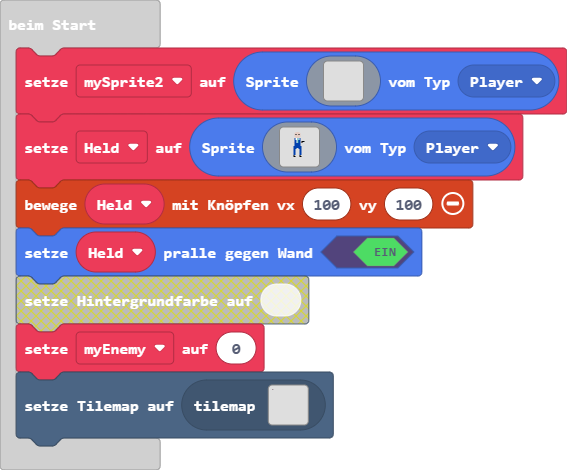
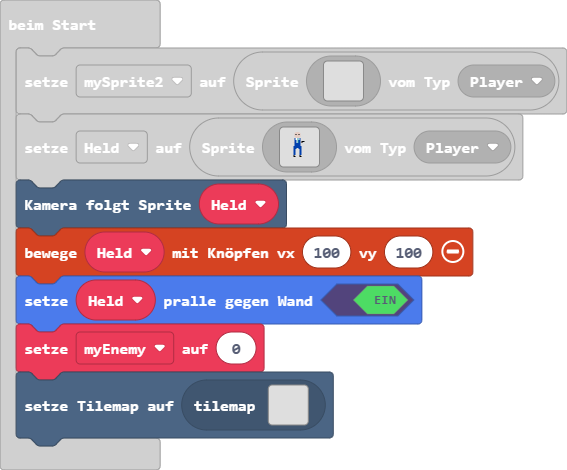
Aktualisiere main.blocks, main.ts, tilemap.g.jres, tilemap.g.ts

diff --git a/tilemap.g.ts b/tilemap.g.ts
@@ -2,8 +2,6 @@
 namespace myTiles {
     //% fixedInstance jres blockIdentity=images._tile
     export const transparency16 = image.ofBuffer(hex``);
-    //% fixedInstance jres blockIdentity=images._tile
-    export const tile1 = image.ofBuffer(hex``);
 
     helpers._registerFactory("tilemap", function(name: string) {
         switch(helpers.stringTrim(name)) {
@@ -140,6 +138,25 @@ namespace myTiles {
 . . . . . . . . . . . . . . . . 
 . . . . . . . . . . . . . . . . 
 `, [myTiles.transparency16,sprites.dungeon.hazardLava1], TileScale.Sixteen);
+            case "Level9":
+            case "Level9":return tiles.createTilemap(hex`1000100000000000000000000000000000000000000000000000000000000000000000000000000000000000000000000000000000000000000000000000000000000000000000000000000000000000000000000000000000000000000000000000000000000000000000000000000000000000000000000000000000000000000000000000000000000000000000000000000000000000000000000000000000000000000000000000000000000000000000000000000000000000000000000000000000000000000000000000000000000000000000000000000000000000000000000000000000000000000000000000000000000000000000000000000000000000`, img`
+. . . . . . . . . . . . . . . . 
+. . . . . . . . . . . . . . . . 
+. . . . . . . . . . . . . . . . 
+. . . . . . . . . . . . . . . . 
+. . . . . . . . . . . . . . . . 
+. . . . . . . . . . . . . . . . 
+. . . . . . . . . . . . . . . . 
+. . . . . . . . . . . . . . . . 
+. . . . . . . . . . . . . . . . 
+. . . . . . . . . . . . . . . . 
+. . . . . . . . . . . . . . . . 
+. . . . . . . . . . . . . . . . 
+. . . . . . . . . . . . . . . . 
+. . . . . . . . . . . . . . . . 
+. . . . . . . . . . . . . . . . 
+. . . . . . . . . . . . . . . . 
+`, [], -Infinity);
             case "Level8":
             case "Level8":return tiles.createTilemap(hex`1000100000000000000000000000000000000000000000000000000000000000000000000000000000000000000000000000000000000000000000000000000000000000000000000000000000000000000000000000000000000000000000000000000000000000000000000000000000000000000000000000000000000000000000000000000000000000000000000000000000000000000000000000000000000000000000000000000000000000000000000000000000000000000000000000000000000000000000000000000000000000000000000000000000000000000000000000000000000000000000000000000000000000000000000000000000000000`, img`
 . . . . . . . . . . . . . . . . 
@@ -158,42 +175,7 @@ namespace myTiles {
 . . . . . . . . . . . . . . . . 
 . . . . . . . . . . . . . . . . 
 . . . . . . . . . . . . . . . . 
-`, [myTiles.transparency16], TileScale.Sixteen);
-            case "Level9":
-            case "Level9":return tiles.createTilemap(hex`2000200001000000000000000000000000000000000000000000000000000000000000000000000000000000000000000000000000000000000000000000000000000000000000000000000000000000000000000000000000000000000000000000000000000000000000000000000000000000000000000000000000000000000000000000000000000000000000000000000000000000000000000000000000000000000000000000000000000000000000000000000000000000000000000000000000000000000000000000000000000000000000000000000000000000000000000000000000000000000000000000000000000000000000000000000000000000000000000000000000000000000000000000000000000000000000000000000000000000000000000000000000000000000000000000000000000000000000000000000000000000000000000000000000000000000000000000000000000000000000000000000000000000000000000000000000000000000000000000000000000000000000000000000000000000000000000000000000000000000000000000000000000000000000000000000000000000000000000000000000000000000000000000000000000000000000000000000000000000000000000000000000000000000000000000000000000000000000000000000000000000000000000000000000000000000000000000000000000000000000000000000000000000000000000000000000000000000000000000000000000000000000000000000000000000000000000000000000000000000000000000000000000000000000000000000000000000000000000000000000000000000000000000000000000000000000000000000000000000000000000000000000000000000000000000000000000000000000000000000000000000000000000000000000000000000000000000000000000000000000000000000000000000000000000000000000000000000000000000000000000000000000000000000000000000000000000000000000000000000000000000000000000000000000000000000000000000000000000000000000000000000000000000000000000000000000000000000000000000000000000000000000000000000000000000000000000000000000000000000000000000000000000000000000000000000000000000000000000000000000000000000000000000000000000000000000000000000000000000000000000000000000000000000000000000000000000000000000000000000000000000000000000000000000000000000000000000000000000000000000000000000000000000000000000000000000000000000000000000000000000000000000000000`, img`
-................................
-................................
-................................
-................................
-................................
-................................
-................................
-................................
-................................
-................................
-................................
-................................
-................................
-................................
-................................
-................................
-................................
-................................
-................................
-................................
-................................
-................................
-................................
-................................
-................................
-................................
-................................
-................................
-................................
-................................
-................................
-................................
-`, [myTiles.transparency16,myTiles.tile1], TileScale.Sixteen);
+`, [], -Infinity);
         }
         return null;
     })
@@ -201,8 +183,6 @@ namespace myTiles {
     helpers._registerFactory("tile", function(name: string) {
         switch(helpers.stringTrim(name)) {
             case "transparency16":return transparency16;
-            case "böser Block":
-            case "tile1":return tile1;
         }
         return null;
     })

diff --git a/main.ts b/main.ts
@@ -50,10 +50,11 @@ let Held = sprites.create(img`
     ................................
     ................................
     `, SpriteKind.Player)
+scene.cameraFollowSprite(Held)
 controller.moveSprite(Held, 100, 100)
 Held.setBounceOnWall(true)
 let myEnemy = 0
-tiles.setCurrentTilemap(tilemap`Level9`)
+tiles.setCurrentTilemap(tilemap`Level8`)
 game.onUpdate(function () {
 	
 })
